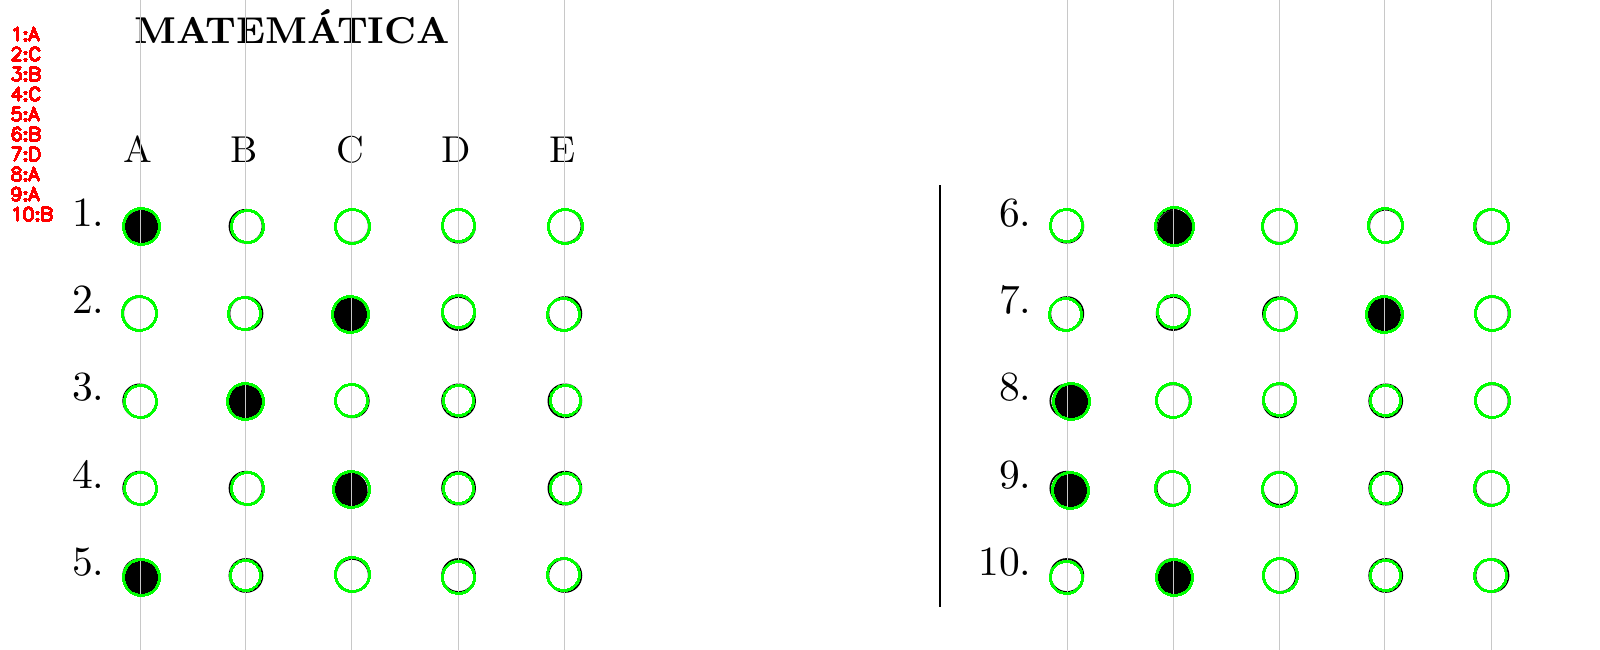
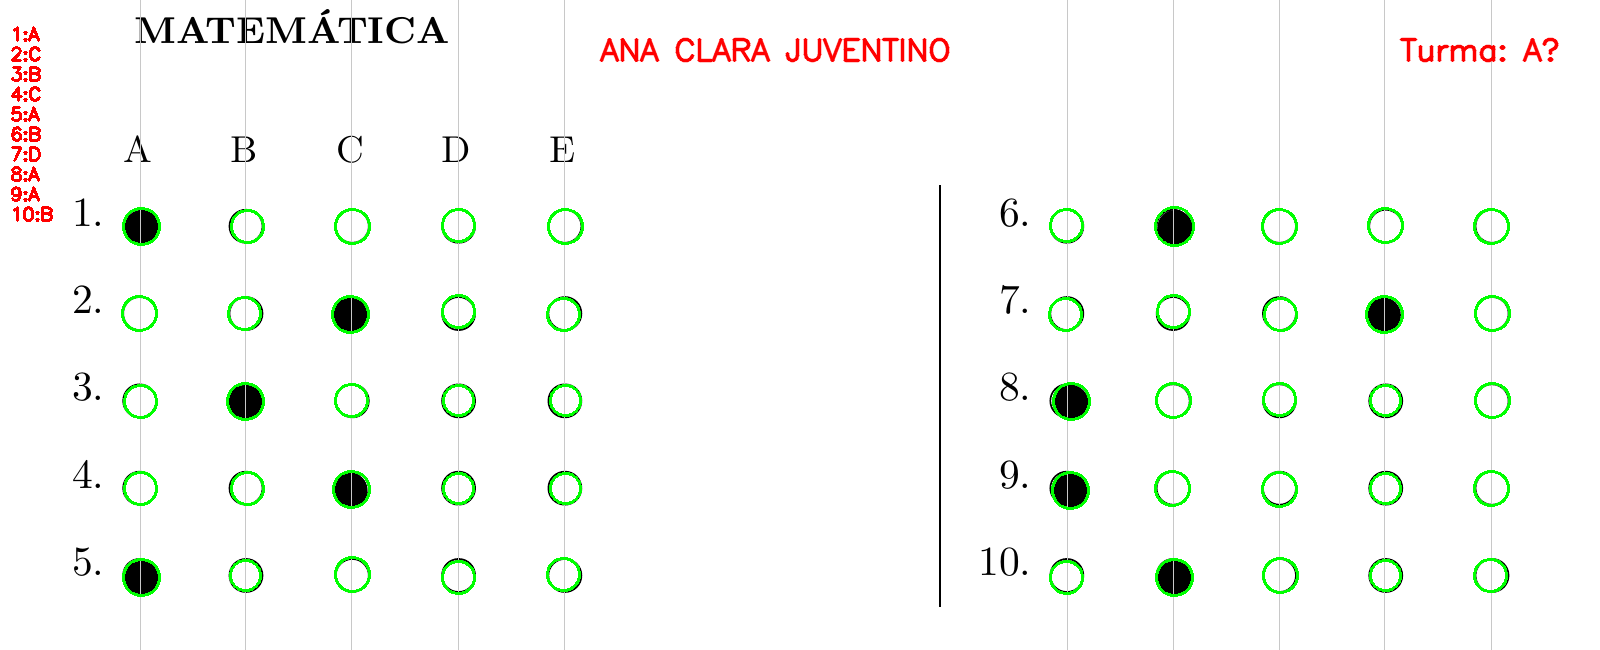
added name to final gabarito.png

Changed region(s): [[0.375, 0.0615, 0.5938, 0.0923], [0.875, 0.0615, 0.9688, 0.0923]]

diff --git a/AI/gabarito_answered/readpngtoarray.py b/AI/gabarito_answered/readpngtoarray.py
@@ -1,6 +1,26 @@
 import cv2
 import numpy as np
 from pathlib import Path
+import pdfplumber
+
+pdf_path = "circulos_preenchidos.pdf"
+
+full_text = ""
+
+with pdfplumber.open(pdf_path) as pdf:
+    for page in pdf.pages:
+        text = page.extract_text()
+        if text:
+            full_text += text + "\n"
+
+# get name 
+name = full_text.split("Aluno(a): ")[1].split("Turma:")[0]
+print(name)
+
+
+# get turma
+turma = full_text.split("Turma: ")[1].split("Nome do Aluno(a)")[0]
+print(turma)
 
 # ---------- parâmetros ----------
 img_path = "math_gabarito.png"    # ajuste aqui
@@ -195,6 +215,37 @@ for (x, y, r) in circles:
 for q, alt in results.items():
     # anotação simples: escreve texto próximo ao topo de cada row (não é a posição precisa)
     cv2.putText(annot, f"{q}:{alt}", (10, 20 + 20 * q), cv2.FONT_HERSHEY_SIMPLEX, 0.6, (0, 0, 255), 2)
+
+# font
+font = cv2.FONT_HERSHEY_SIMPLEX
+
+# org
+org = (600, 60)
+
+# fontScale
+fontScale = 1
+ 
+# Red color in BGR
+color = (0, 0, 255)
+
+# Line thickness of 2 px
+thickness = 2
+
+# Using cv2.putText() method
+image = cv2.putText(annot, name, org, font, fontScale, 
+                 color, thickness, cv2.LINE_AA, False)
+
+turma = 'Turma: ' + turma
+
+print(str(turma))
+
+# org
+org = (1400, 60)
+
+# Using cv2.putText() method
+image = cv2.putText(annot, turma, org, font, fontScale, 
+                 color, thickness, cv2.LINE_AA, False)
+
 
 cv2.imwrite(out_annot, annot)
 print("Imagem anotada salva em", out_annot)

diff --git a/AI/gabarito_answered/get_name.py b/AI/gabarito_answered/get_name.py
@@ -1,0 +1,27 @@
+import pdfplumber
+
+pdf_path = "circulos_preenchidos.pdf"
+
+full_text = ""
+
+with pdfplumber.open(pdf_path) as pdf:
+    for page in pdf.pages:
+        text = page.extract_text()
+        if text:
+            full_text += text + "\n"
+
+# Salvar o texto em um arquivo .txt
+#with open("output.txt", "w", encoding="utf-8") as f:
+#    f.write(full_text)
+
+# get name 
+name = full_text.split("Aluno(a): ")[1].split("Turma:")[0]
+print(name)
+
+
+# get turma
+turma = full_text.split("Turma: ")[1].split("Nome do Aluno(a)")[0]
+print(turma)
+
+print("Texto extraído do PDF:\n")
+print(full_text)
